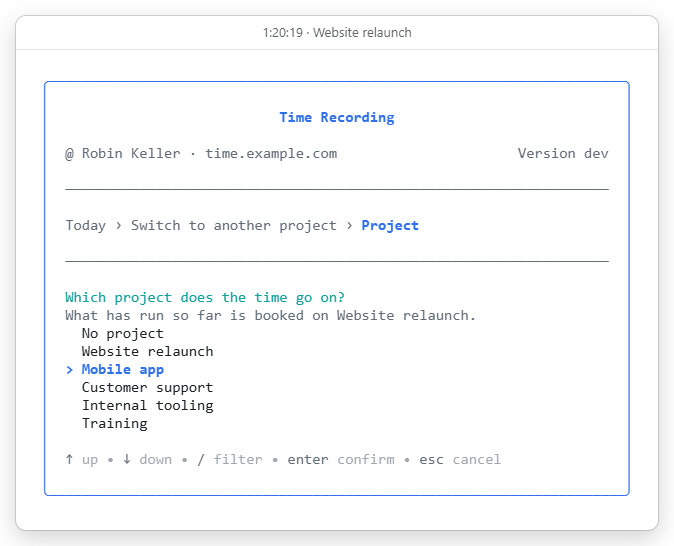
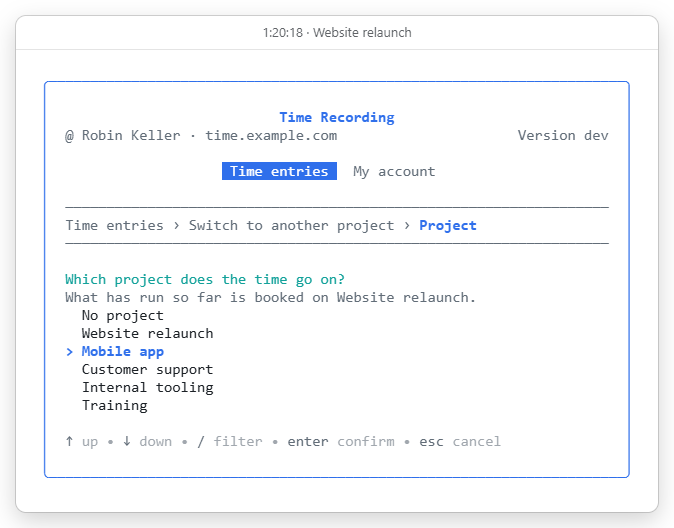
docs: show and describe the terminal's time entries tab
The README showed a terminal screen that no longer exists: the stopwatch
over today's three entries, with p for the settings. The terminal pictures
were taken again with the camera's own client. The camera now waits for
"Entries" where it waited for "Today", which only the old breadcrumb said.
The pictures were looked at before this commit:
- the tabs, with the one on screen filled
- the entries card cut at six rows with its "1–6 of 25"
- the menu grouped by the page's cards
all within the camera's 76x40 terminal.

The same run took the web interface's pictures again. They are left as they
were: none of those screens changed in this branch, and the run, on a Monday
morning, showed a week with a single day booked where the pictures in the
tree show two. Both runs were on this machine, so the faces the README shows
do not mix, which is why the task takes every picture in one run.

The README's caption and alt text, and the client's own usage text in English
and German, now describe the tabs and the menus of the page's cards.
CLAUDE.md names the design the maintainer chose as the rule for the areas
still to come: the page's tabs as their areas are built, the cards under
them, the #359 menu grouped by card, and the row picked after its change.
Each area's requests are held to a personal token against the real binary.

diff --git a/internal/interface/cli/track.go b/internal/interface/cli/track.go
@@ -23,9 +23,10 @@ import (
 // usage is what the client says about itself.
 const usage = `go-time-recording-client - book time from a terminal
 
-On a terminal and without a command, it opens a screen: the stopwatch running,
-today's entries, a form for each of these commands, and the account's own
-settings, which it saves to the account as the browser does.
+On a terminal and without a command, it opens a screen headed by the web
+interface's tabs: the time entries - the stopwatch, the entries, the spreadsheet
+and the templates - and the account's own settings, which it saves to the
+account as the browser does, with a menu and a form for each change.
 
   status                             the stopwatch, and what today adds up to
   start [project] [-m text]          start the stopwatch, on a project or on none

diff --git a/test/browser/readmepicture_test.go b/test/browser/readmepicture_test.go
@@ -142,7 +142,7 @@ func TestTheReadmePicturesAreTakenFromTheApplication(t *testing.T) {
 	p.awaitJSON(`api('/me/tokens', {method: 'POST', body: JSON.stringify({name: 'Terminal', expiresInDays: 0})})`, &token)
 
 	term := openTerminal(t, p.app.BaseURL(), token.Secret)
-	term.await("Website relaunch", "Today")
+	term.await("Website relaunch", "Entries")
 	keep(t, into, "terminal", term.photograph())
 
 	term.press("w")

diff --git a/CLAUDE.md b/CLAUDE.md
@@ -148,6 +148,7 @@
 * **State/Refills:** Background loads/saves must not overwrite a partially filled form or read stale server state. `beingEdited(form)` is what tells a loader to leave a half-filled form alone.
 * **Duplication:** Search for existing UI controls (e.g., password reveals) before adding new ones. One question gets one control: the role is changed from the dropdown in the user's row and nowhere else, which is why the account form puts that field away while it is editing.
 * **The terminal client follows the account, and changes the account rather than itself** - decided by the maintainer on 2026-11-03. What the installation and the account hold presets it: the account's language, appearance, zone and reminders, the installation's name and banner, and the notices the browser shows as banners, read with the day so that a choice made in the browser reaches an open screen at its next read. A setting changed in it is saved to the account through the route the browser uses, so it holds everywhere and the client can set nothing the browser cannot. Only the connection lives on the machine, and a language named with `--lang` or `GTR_LANG`, which a script relies on. Where the terminal measures what a setting can only guess - its background - the measurement wins, because the client can draw on a background it cannot change. `internal/interface/cli/setting.go` holds the list, and a setting added to *My account* belongs there too. **The Android app needs none of this: it shows the web interface itself**, decided the same day, so that it does whatever the browser does, in its design, for good - see `internal/interface/mobile/src/main/kotlin/io/github/dennisdko/gotimerecording/Web.kt`.
+* **The terminal client is the web interface in a terminal, taught one area at a time** - asked for by the maintainer in November 2026, with one pull request per area. The page's tabs sit across the top, and a tab is listed only once its area does what the page's does (`tabs` in `internal/interface/cli/tab.go`), because a tab that opened onto nothing would offer what the screen cannot do. Under the tabs come the page's cards with their data, and under those the menu with `>` from the framed look, grouped by the page's cards - chosen by the maintainer from two mock-ups over a bar of keys. A change to one row is chosen first, and its row is picked in the card's table after it. An area says what the page says, through the page's dictionary keys, and its requests are held to a personal token against the real binary, as `test/integration/clienttimesheet_test.go` holds the time entries'.
 * **A card withheld from somebody who can open its screen is replaced by a sentence, not by nothing.** The directory synchronisation is offered only to an account that administers and records no time of its own, and for the combined role the card was simply absent - on a screen the tour told that very account carried it. An absent card cannot be told from a removed feature, and the question that prompted this was exactly that: had the synchronisation not been on the Settings screen before? `#sync-elsewhere` now says whose the run is, and carries nothing that can be pressed, because the server refuses that account the run; `TestAnAdministratorWhoAlsoWorksIsToldWhereTheDirectoryRunIs` holds the sentence and the tour's with it.
 * **One form, two jobs.** Creating and correcting share a form, told apart by a hidden `id` input — the booking form, the role form, the account form and the project form all work this way. A form in edit mode swaps its title and its submit label and shows its `cancel editing` button; saving calls the form's own reset so the next new record is not written over the one just saved.
 * **DOM Quirks:**

diff --git a/README.md b/README.md
@@ -247,12 +247,12 @@ and says what it did — for a script, an alias or a screen reader.
 <table>
   <tr>
     <td width="50%" valign="top">
-      <img src="doc/image/terminal.png" alt="The client's screen in a terminal, framed under the installation's name: the stopwatch running for an hour and twenty minutes on the website relaunch, today's three entries under it, and the menu of what it can do next">
+      <img src="doc/image/terminal.png" alt="The client's screen in a terminal, framed under the installation's name and the web interface's tabs: the stopwatch running on the website relaunch, the entries under it as the page lists them, and the menu of what it can do next">
       <p><b>The day at a glance.</b> Under the installation's own name, who is signed in and which build of the client this is, and the web interface's tabs, the one on screen filled with the accent. The stopwatch counts the seconds, and the screen reads the day again every half minute, so a stopwatch stopped in the browser stops here too.</p>
     </td>
     <td width="50%" valign="top">
       <img src="doc/image/terminal-switch.png" alt="The form that switches the stopwatch to another project, one question at a time, with the active projects to choose from">
-      <p><b>One question at a time.</b> The arrow keys and <code>enter</code> choose a change from the menu, or its key does it at once: <code>s</code> starts the stopwatch, <code>w</code> switches it to another project and books what has run, <code>x</code> stops it and books it after asking, <code>b</code> books hours by hand, and <code>e</code> opens the entries' own menu - filtered as the page filters them, a page at a time. <code>←</code> and <code>→</code> move between the tabs. A form asks one thing at a time and the line above it says where it is; <code>esc</code> puts it away and <code>q</code> closes the screen.</p>
+      <p><b>One question at a time.</b> The arrow keys and <code>enter</code> choose a change from the menu, or its key does it at once: <code>s</code> starts the stopwatch, <code>w</code> switches it to another project and books what has run, <code>x</code> stops it and books it after asking, and <code>b</code> books hours by hand. <code>e</code>, <code>u</code>, <code>t</code> and <code>v</code> open the menus of the page's cards - the entries, the stopwatch, the spreadsheet and the templates - where a change to an entry is chosen first and the entry picked in the list after it. <code>←</code> and <code>→</code> move between the tabs. A form asks one thing at a time and the line above it says where it is; <code>esc</code> puts it away or goes back, and <code>q</code> closes the screen.</p>
     </td>
   </tr>
 </table>
